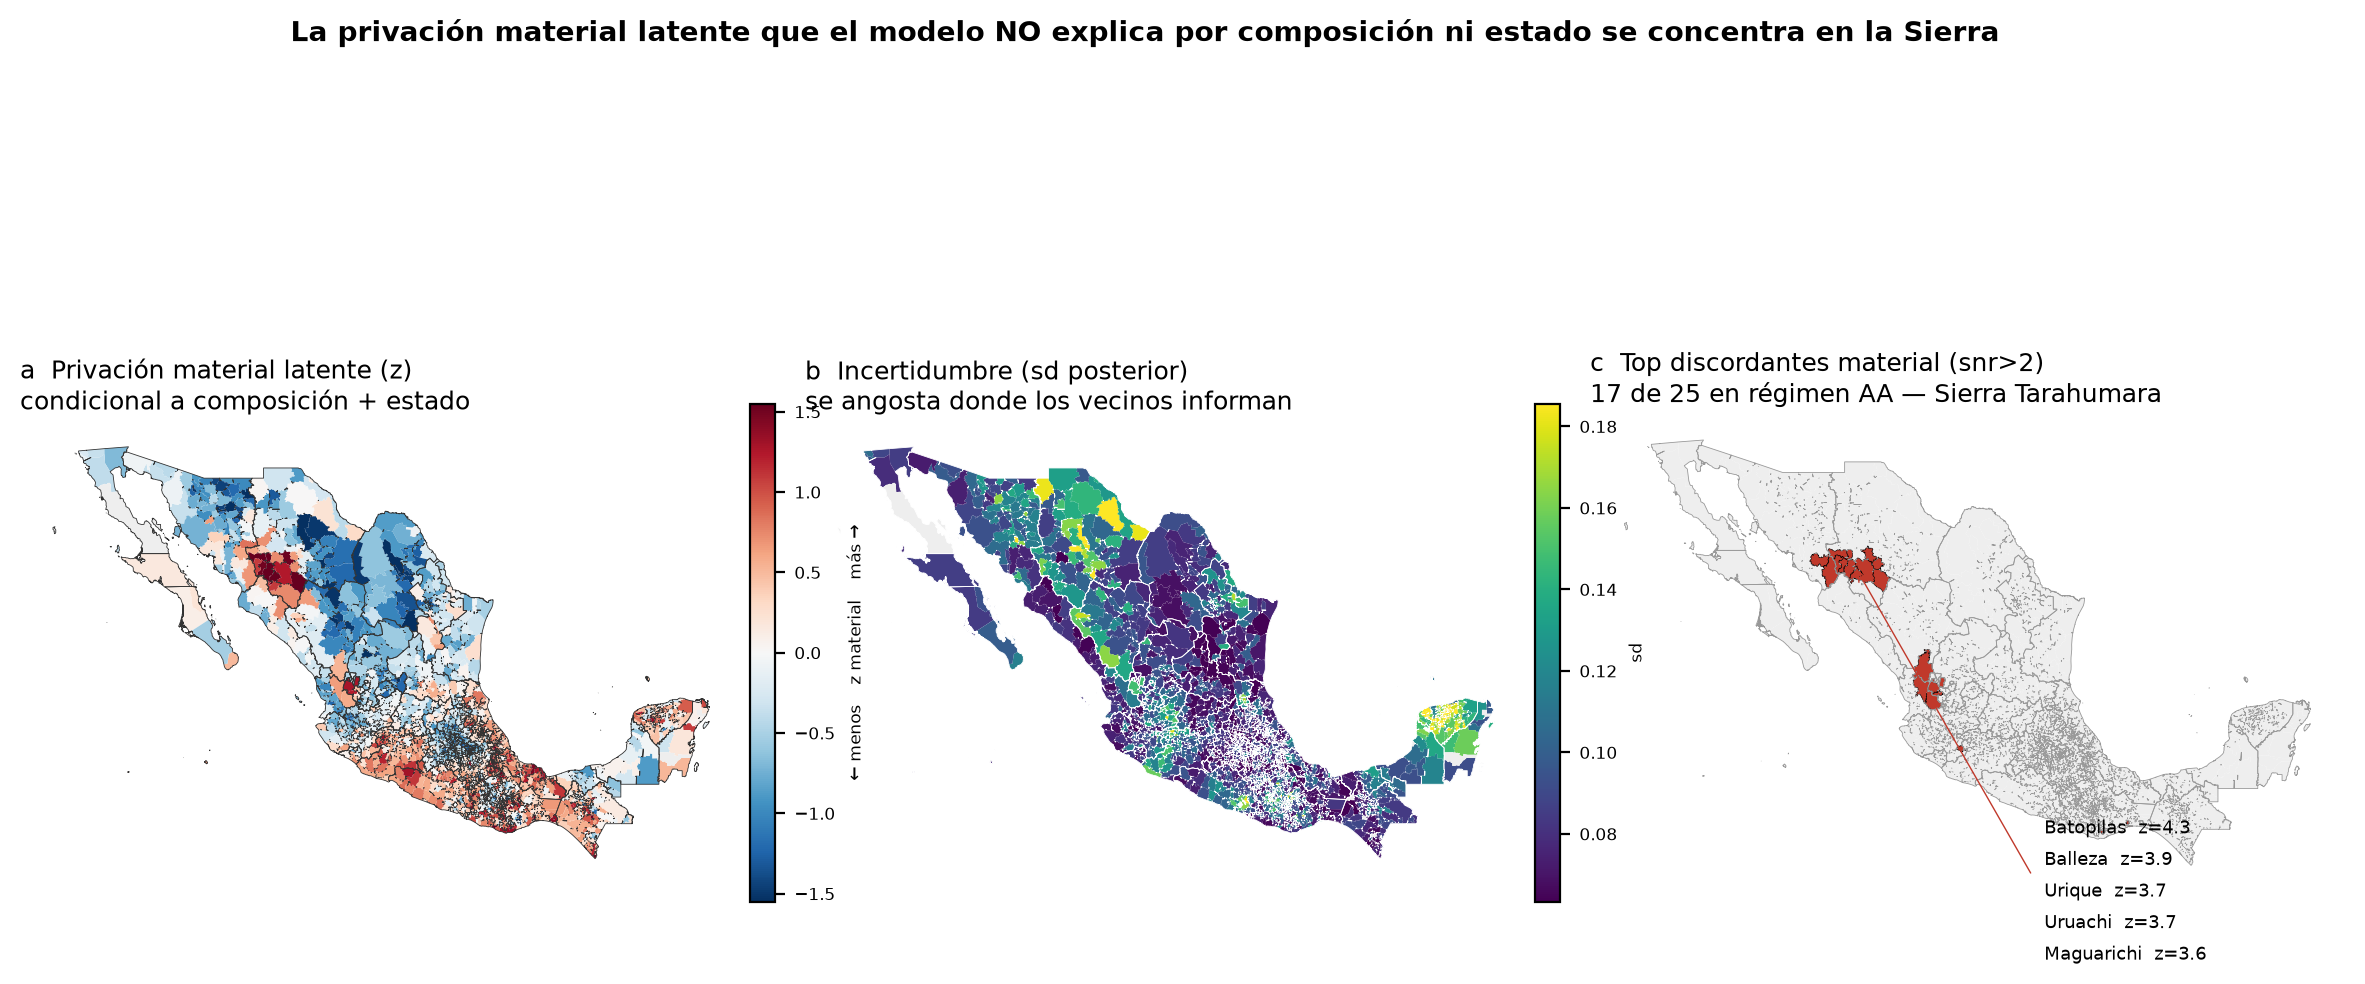
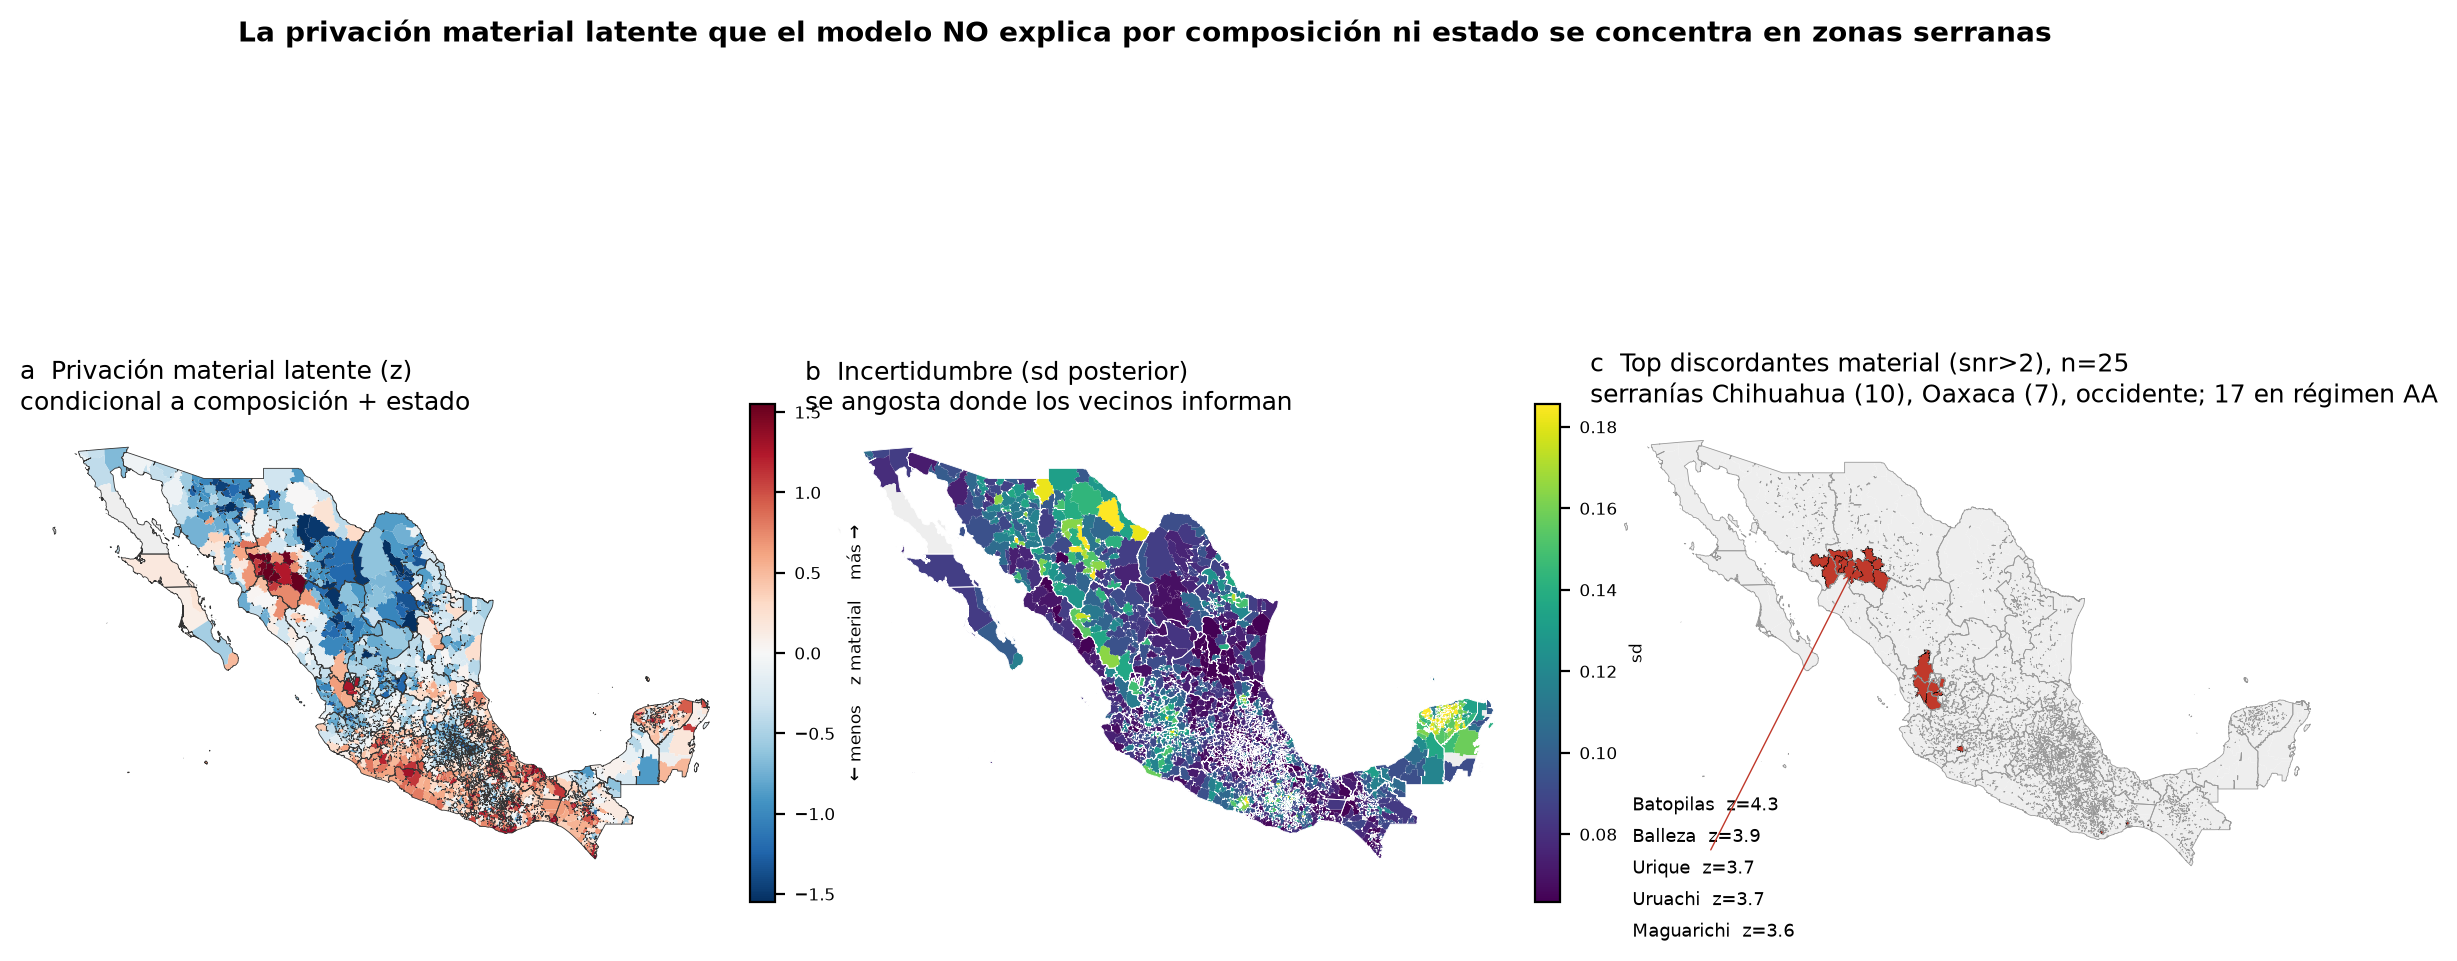
Figura DAG renderizada + hallazgo 'la vara vale dinero' (+19% AA vs BB en aportaciones pc)
- fig_dag_dgp.png: el DAG de medición como figura (5 dependencias numeradas, lazo FAIS)
- fig_dos_varas_dinero.png: (a) cuadrante CONAPO vs CONEVAL con municipios nombrados;
  (b) condicional a nivel y tamaño, AA recibe +15.8% aportaciones pc (t=4.3), BB -3% ns
  -> hipótesis: piso Fi,2013 de la fórmula FAIS hereda la masa carencial vieja
- Sección 4b en reporte_dgp_dag.md con caveats (FAIS+FORTAMUN, un año, asociación)

Changed region(s): [[0.0, 0.3434, 0.9877, 0.999], [0.0926, 0.0, 0.8334, 0.0624]]

diff --git a/scripts/fig_dos_varas.py b/scripts/fig_dos_varas.py
@@ -1,0 +1,109 @@
+#!/usr/bin/env python
+"""
+Figura insignia: "Dos varas, un presupuesto".
+
+(a) Dos varas, dos Méxicos: privación media CONAPO vs CONEVAL (logit-z), 45°, régimen LISA,
+    municipios extremos nombrados, tamaño = población.
+(b) La vara vale dinero: aportaciones federales pc vs nivel de privación total; a mismo nivel
+    y tamaño, AA recibe +19% vs BB (fórmula FAIS: base 2013 heredada de la fórmula vieja de
+    masa carencial + incremento por pobreza CONEVAL).
+
+Salida: figures/fig_dos_varas_dinero.png, outputs/gap_aportaciones_regimen.csv
+"""
+import os
+import numpy as np, pandas as pd
+import numpy.linalg as la
+import matplotlib
+matplotlib.use("Agg")
+import matplotlib.pyplot as plt
+
+HERE = os.path.dirname(os.path.dirname(os.path.abspath(__file__)))
+PROC, OUT, FIG = (os.path.join(HERE, p) for p in (os.path.join("data", "processed"), "outputs", "figures"))
+SURF, INK, INK2, MUT, GRID = "#fcfcfb", "#0b0b0b", "#52514e", "#898781", "#e1e0d9"
+RED, BLUE, GRAY = "#e34948", "#2a78d6", "#d5d4cd"
+CONAPO = ["analf", "sin_basica", "sin_drenaje", "sin_electr", "sin_agua",
+          "piso_tierra", "hacinam", "loc_peq", "ing_2sm"]
+CONEVAL = ["rezago_educ", "car_salud", "car_segsoc", "car_vivienda", "car_servbas",
+           "car_alim", "lp_ingreso", "lp_ingreso_ext"]
+
+plt.rcParams.update({"figure.facecolor": SURF, "axes.facecolor": SURF, "font.size": 9,
+                     "axes.edgecolor": "#c3c2b7", "text.color": INK, "axes.labelcolor": INK2,
+                     "xtick.color": MUT, "ytick.color": MUT,
+                     "axes.spines.top": False, "axes.spines.right": False})
+
+
+def main():
+    d = pd.read_parquet(os.path.join(PROC, "diagnostico_municipal_v1.parquet"))
+    fin = pd.read_parquet(os.path.join(PROC, "finanzas_mun_2020.parquet"))[["cvegeo", "aportaciones_pc"]]
+    Y = pd.read_parquet(os.path.join(PROC, "gllvm_Y.parquet"))
+    Y.index = pd.read_parquet(os.path.join(PROC, "gllvm_covars.parquet"))["cvegeo"].values
+    d["conapo"] = Y.loc[d["cvegeo"], CONAPO].mean(axis=1).values
+    d["coneval"] = Y.loc[d["cvegeo"], CONEVAL].mean(axis=1).values
+    d["nivel"] = Y.loc[d["cvegeo"]].mean(axis=1).values
+    d = d.merge(fin, on="cvegeo")
+    d["reg"] = d["lisa"].where(d["lisa"].isin(["AA", "BB"]), "ns")
+
+    # regresión del gap (misma spec que la verificación)
+    m = d.dropna(subset=["aportaciones_pc"]).query("aportaciones_pc>0").copy()
+    m["log_apo"] = np.log(m["aportaciones_pc"])
+    X = np.column_stack([np.ones(len(m)), m["nivel"], m["nivel"]**2, m["log_pob"],
+                         (m["reg"] == "AA").astype(float), (m["reg"] == "BB").astype(float)])
+    b, *_ = la.lstsq(X, m["log_apo"], rcond=None)
+    gapAA, gapBB = (np.exp(b[4]) - 1) * 100, (np.exp(b[5]) - 1) * 100
+    pd.DataFrame({"coef": ["AA", "BB"], "gap_pct_vs_ns": [gapAA, gapBB]}).round(2).to_csv(
+        os.path.join(OUT, "gap_aportaciones_regimen.csv"), index=False)
+
+    fig, (a, bx) = plt.subplots(1, 2, figsize=(13, 5.6))
+
+    # (a) dos varas
+    for reg, c, zo in [("ns", GRAY, 1), ("BB", BLUE, 3), ("AA", RED, 3)]:
+        s = d[d["reg"] == reg]
+        a.scatter(s["coneval"], s["conapo"], s=np.sqrt(s["pob_conapo"]) / 18, color=c,
+                  alpha=0.75 if reg != "ns" else 0.45, zorder=zo, linewidths=0)
+    lim = [-2.2, 2.6]
+    a.plot(lim, lim, color="#c3c2b7", lw=1, zorder=0)
+    a.set_xlim(lim); a.set_ylim(lim)
+    a.set_xlabel("privación según CONEVAL (pobreza, media logit-z)")
+    a.set_ylabel("privación según CONAPO (marginación)")
+    a.set_title("(a) Dos varas, dos Méxicos\narriba de la diagonal: más marginado que pobre",
+                fontsize=10, loc="left", color=INK)
+    # nombrar extremos con población >20k
+    ext = d[(d["pob_conapo"] > 20000)]
+    for _, r in pd.concat([ext.nlargest(4, "discordancia_obs"),
+                           ext.nsmallest(3, "discordancia_obs")]).iterrows():
+        a.annotate(r["nom_mun"], (r["coneval"], r["conapo"]), fontsize=7, color=INK2,
+                   xytext=(5, 3), textcoords="offset points")
+    a.text(0.02, 0.95, "● AA  ", transform=a.transAxes, color=RED, fontsize=9)
+    a.text(0.10, 0.95, "● BB  ", transform=a.transAxes, color=BLUE, fontsize=9)
+    a.text(0.18, 0.95, "● no significativo", transform=a.transAxes, color=MUT, fontsize=9)
+
+    # (b) la vara vale dinero
+    for reg, c, zo in [("ns", GRAY, 1), ("BB", BLUE, 3), ("AA", RED, 3)]:
+        s = m[m["reg"] == reg]
+        bx.scatter(s["nivel"], s["aportaciones_pc"], s=10, color=c,
+                   alpha=0.7 if reg != "ns" else 0.35, zorder=zo, linewidths=0)
+    xs = np.linspace(m["nivel"].min(), m["nivel"].max(), 60)
+    base = np.exp(b[0] + b[1] * xs + b[2] * xs**2 + b[3] * m["log_pob"].median())
+    bx.plot(xs, base, color=INK2, lw=1.6, zorder=4, label="esperado (ns)")
+    bx.plot(xs, base * np.exp(b[4]), color=RED, lw=1.6, ls="--", zorder=4,
+            label=f"AA: {gapAA:+.0f}%")
+    bx.plot(xs, base * np.exp(b[5]), color=BLUE, lw=1.6, ls="--", zorder=4,
+            label=f"BB: {gapBB:+.0f}%")
+    bx.set_yscale("log")
+    bx.set_xlabel("nivel de privación total (media 17 indicadores, logit-z)")
+    bx.set_ylabel("aportaciones federales 2020 per cápita (MXN, log)")
+    bx.set_title("(b) La vara vale dinero\nmismo nivel de privación y tamaño: AA recibe "
+                 f"{gapAA - gapBB:.0f}% más que BB", fontsize=10, loc="left", color=INK)
+    bx.legend(frameon=False, fontsize=8.5, loc="lower right")
+    bx.grid(axis="y", color=GRID, lw=0.5)
+
+    fig.suptitle("La geografía de la discordancia tiene precio: las transferencias aún premian "
+                 "el perfil de la fórmula vieja (masa carencial) sobre la pobreza CONEVAL",
+                 fontsize=11.5, color=INK, x=0.02, ha="left")
+    fig.tight_layout(rect=[0, 0, 1, 0.93])
+    fig.savefig(os.path.join(FIG, "fig_dos_varas_dinero.png"), dpi=160)
+    print(f"gap AA {gapAA:+.1f}% | BB {gapBB:+.1f}% | figura lista")
+
+
+if __name__ == "__main__":
+    main()

diff --git a/scripts/fig_dag.py b/scripts/fig_dag.py
@@ -1,0 +1,96 @@
+#!/usr/bin/env python
+"""
+El DAG de medición, renderizado (figures/fig_dag_dgp.png).
+Layout manual: latente -> instrumentos -> indicadores; cofactores arriba; lazo FAIS abajo.
+Aristas rojas numeradas = las 5 dependencias mecánicas de reports/reporte_dgp_dag.md.
+"""
+import os
+import matplotlib
+matplotlib.use("Agg")
+import matplotlib.pyplot as plt
+from matplotlib.patches import FancyBboxPatch, FancyArrowPatch, Ellipse
+
+HERE = os.path.dirname(os.path.dirname(os.path.abspath(__file__)))
+FIG = os.path.join(HERE, "figures")
+SURF, INK, INK2, MUT = "#fcfcfb", "#0b0b0b", "#52514e", "#898781"
+BLUE, AQUA, YELLOW, RED, VIOLET = "#2a78d6", "#1baf7a", "#eda100", "#e34948", "#4a3aa7"
+
+fig, ax = plt.subplots(figsize=(14, 8.6), facecolor=SURF)
+ax.set_xlim(0, 14); ax.set_ylim(0, 8.6); ax.set_axis_off()
+
+
+def box(x, y, w, h, text, fc, ec, fs=8.5, tc=INK, style="round,pad=0.08", lw=1.4):
+    ax.add_patch(FancyBboxPatch((x - w/2, y - h/2), w, h, boxstyle=style,
+                                facecolor=fc, edgecolor=ec, linewidth=lw, zorder=3))
+    ax.text(x, y, text, ha="center", va="center", fontsize=fs, color=tc, zorder=4)
+
+
+def arrow(x1, y1, x2, y2, color=MUT, lw=1.4, ls="-", rad=0.0, z=2):
+    ax.add_patch(FancyArrowPatch((x1, y1), (x2, y2), arrowstyle="-|>", mutation_scale=13,
+                                 color=color, lw=lw, linestyle=ls, zorder=z,
+                                 connectionstyle=f"arc3,rad={rad}"))
+
+
+def tag(x, y, n):
+    ax.add_patch(Ellipse((x, y), 0.34, 0.34, facecolor=RED, zorder=6))
+    ax.text(x, y, str(n), ha="center", va="center", fontsize=8, color="white",
+            zorder=7, fontweight="bold")
+
+
+# ---- capa latente y cofactores ----
+ax.add_patch(Ellipse((1.8, 4.5), 2.4, 1.5, facecolor="#eef4fd", edgecolor=BLUE, lw=2, zorder=3))
+ax.text(1.8, 4.5, "PRIVACIÓN LATENTE\n$z_i$ material · educativo\n· monetario", ha="center",
+        va="center", fontsize=9, color=INK, zorder=4)
+box(1.8, 7.3, 3.0, 1.1, "COFACTORES (Vista D/E)\nruralidad · remesas · demografía\nsectores · fiscal", "#f2fbf7", AQUA)
+arrow(1.8, 6.7, 1.8, 5.35, AQUA, 1.8)
+
+# ---- instrumentos ----
+box(5.4, 6.6, 2.5, 1.0, "CENSO 2020\ncuestionario básico\n(conteo completo)", "#fff", INK2)
+box(5.4, 4.5, 2.5, 1.0, "MUESTRA CENSAL\ncuestionario ampliado\n(municipal)", "#fff", INK2)
+box(5.4, 2.4, 2.5, 1.0, "MEC MCS-ENIGH\n(solo nacional/estatal)", "#fff", INK2)
+for y in (6.6, 4.5, 2.4):
+    arrow(2.95, 4.5 + (y - 4.5) * 0.35, 4.1, y, BLUE, 1.8)
+
+# ---- procesos CONEVAL ----
+box(8.3, 3.5, 2.1, 1.0, "12 MODELOS SAE\nlogístico + EBPH\n(grupos de estados)", "#f6f3ff", VIOLET)
+box(8.3, 1.6, 2.1, 0.8, "CALIBRACIÓN\na totales estatales", "#f6f3ff", VIOLET)
+arrow(6.65, 4.3, 7.2, 3.7, VIOLET, 1.6)          # covariables censales -> SAE
+arrow(6.65, 2.4, 7.2, 3.2, VIOLET, 1.6)          # parámetros ENIGH -> SAE
+arrow(6.65, 2.2, 7.22, 1.7, VIOLET, 1.2)         # ENIGH -> calibración
+
+# ---- indicadores ----
+box(11.9, 6.9, 3.4, 1.5, "9 INDICADORES CONAPO\nanalf · sin_basica · drenaje · electr\nagua · piso · hacinam · loc_peq\n· ing_2sm (muestra)", "#eef4fd", BLUE, fs=8)
+box(11.9, 4.6, 3.4, 1.1, "4 CONEVAL DIRECTOS\nrezago_educ · car_salud\ncar_vivienda · car_servbas", "#fdf2e6", YELLOW, fs=8)
+box(11.9, 2.6, 3.4, 1.1, "4 CONEVAL MODELADOS\ncar_segsoc · car_alim\nlp_ingreso · lp_ingreso_ext", "#fdeeee", RED, fs=8)
+arrow(6.65, 6.75, 10.15, 6.95, BLUE, 1.8)        # censo -> CONAPO
+arrow(6.65, 4.75, 10.15, 6.55, BLUE, 1.4, rad=-0.12)  # muestra -> ing_2sm
+arrow(6.65, 4.55, 10.15, 4.6, YELLOW, 1.8)       # muestra -> directos
+arrow(9.38, 3.4, 10.15, 2.9, RED, 1.8)           # SAE -> modelados
+arrow(9.38, 1.62, 10.15, 2.3, RED, 1.4)          # calibración -> modelados
+
+# ---- dependencias mecánicas (rojas numeradas) ----
+tag(8.6, 5.9, 1); ax.text(8.6, 5.52, "mismo instrumento →\nbloques de método $m_{ij}$",
+                          ha="center", fontsize=7.2, color=INK2)
+tag(7.6, 4.05, 2); ax.text(7.55, 4.42, "correlación inducida\n(covariables compartidas)",
+                           ha="center", fontsize=7.2, color=INK2)
+tag(9.05, 1.15, 3); ax.text(9.15, 0.78, "umbral + calibración estatal → γ_s con doble lectura",
+                            ha="center", fontsize=7.2, color=INK2)
+tag(8.45, 6.62, 4); ax.text(8.45, 6.28, "ing_2sm: puente\nmuestra ↔ ingreso", ha="center",
+                            fontsize=7.2, color=INK2)
+
+# ---- lazo FAIS ----
+box(6.4, 0.55, 3.6, 0.75, "FAIS 2016–2020  ←  fórmula art. 34 LCF  ←  pobreza medida 2015",
+    "#fdeeee", RED, fs=8)
+arrow(11.9, 2.02, 8.25, 0.72, RED, 1.5, ls=":", rad=0.25)
+arrow(4.55, 0.62, 1.75, 3.7, RED, 1.5, ls=":", rad=0.25)
+tag(3.3, 1.35, 5); ax.text(3.95, 1.06, "circularidad de política:\nel dinero sigue a la medida",
+                           ha="center", fontsize=7.2, color=INK2)
+
+ax.text(0.15, 8.35, "El proceso generador de datos como DAG de medición — México 2020",
+        fontsize=13, color=INK, fontweight="bold")
+ax.text(0.15, 8.0, "flechas sólidas: flujo de medición · punteadas rojas: retroalimentación de política · "
+        "círculos rojos: las 5 dependencias mecánicas (reporte_dgp_dag.md)", fontsize=8.5, color=INK2)
+
+fig.tight_layout()
+fig.savefig(os.path.join(FIG, "fig_dag_dgp.png"), dpi=160)
+print("figures/fig_dag_dgp.png lista")

diff --git a/reports/reporte_dgp_dag.md b/reports/reporte_dgp_dag.md
@@ -58,6 +58,10 @@ Detalles del cálculo que importan para el modelo:
 
 ## 3. El DAG
 
+![DAG de medición](../figures/fig_dag_dgp.png)
+
+*(Versión mermaid navegable abajo; el PNG es el canónico.)*
+
 ```mermaid
 graph TD
     subgraph LATENTE["Privación latente del municipio i"]
@@ -155,6 +159,22 @@ totales municipales de aportaciones, que lo contienen) como *covariable* condici
 descendiente del outcome medido: sesgo de colisionador/mediador garantizado. FAIS entra al
 análisis solo como **variable de validación o de política**, jamás como cofactor del espacio
 latente.
+
+## 4b. La dependencia 5, cuantificada: la vara vale dinero
+
+![Dos varas, un presupuesto](../figures/fig_dos_varas_dinero.png)
+
+Condicional al **mismo nivel de privación total y tamaño poblacional**, los municipios en
+régimen AA (más marginados que pobres) recibieron en 2020 **+15.8% de aportaciones federales
+per cápita** (t=4.3) y los BB −3.0% (n.s.) — brecha AA−BB ≈ **+19%**, del orden de 1.2 mmdp/año
+sobre la masa AA (`outputs/gap_aportaciones_regimen.csv`). Interpretación propuesta (hipótesis,
+no demostrada): la fórmula vigente del FAIS conserva como piso la asignación 2013, heredada de
+la fórmula *vieja* de masa carencial (perfil marginación: drenaje, electricidad, piso,
+educación); solo el excedente se reparte por pobreza extrema CONEVAL (0.8z+0.2e) → **el dinero
+de hoy aún lleva la huella de la vara vieja**. Caveats: aportaciones EFIPEM = FAIS+FORTAMUN
+(FORTAMUN ~per cápita, diluye pero no invierte el signo), cobertura 91%, un solo año,
+asociación no causal. El diseño con montos FISM reales 2016–2020 (tarea abierta) convierte
+esto en el estudio de identificación central.
 
 ## 5. Implicaciones directas para la escalera GLLVM
 